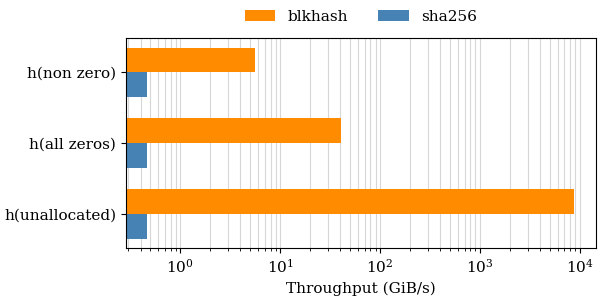
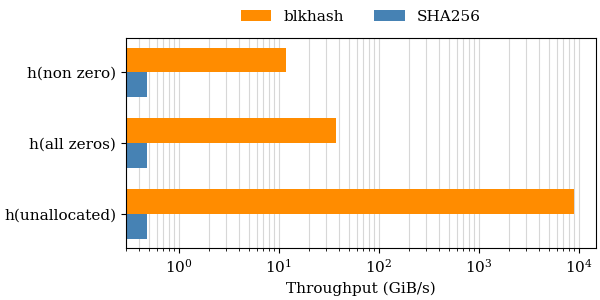
Update README.md blkhash performance section
Update the results and the graph for 64 threads, and add link to the
`test/results` for more info.

diff --git a/README.md b/README.md
@@ -378,20 +378,21 @@ The `blkhash` library is up to 4 order of magnitude faster than openssl
 using the same digest algorithm.
 
 We measured the throughput of the `blkhash` library using `sha256`
-algorithm and 16 threads for 3 operations:
+algorithm and 64 threads for 3 operations:
 - `h(non zero)` - hash non-zero data
 - `h(all zeros)` - hash data that is all zeros
 - `h(unallocated)` - hash an unallocated area (logically filled with zeros)
 
 The following graph compares the throughput to `sha256` using
-logarithmic scale.  The throughput of hashing unallocated area is *19000
-times higher*, hashing zeros is *80 times higher*, and hashing non-zero
-data is *12 times higher*.
+logarithmic scale.  The throughput of hashing unallocated area is *18,649
+times higher*, hashing zeros is *76 times higher*, and hashing non-zero
+data is *24 times higher*.
 
 ![blkhash vs sha256](media/blkhash-web.png)
 
 For more info on benchmarking `blkhash` see
-[test/README.md](test/#the-blkhash-bench-program).
+[test/README.md](test/#the-blkhash-bench-program) and the
+[tests results](test/results).
 
 ## Portability
 
